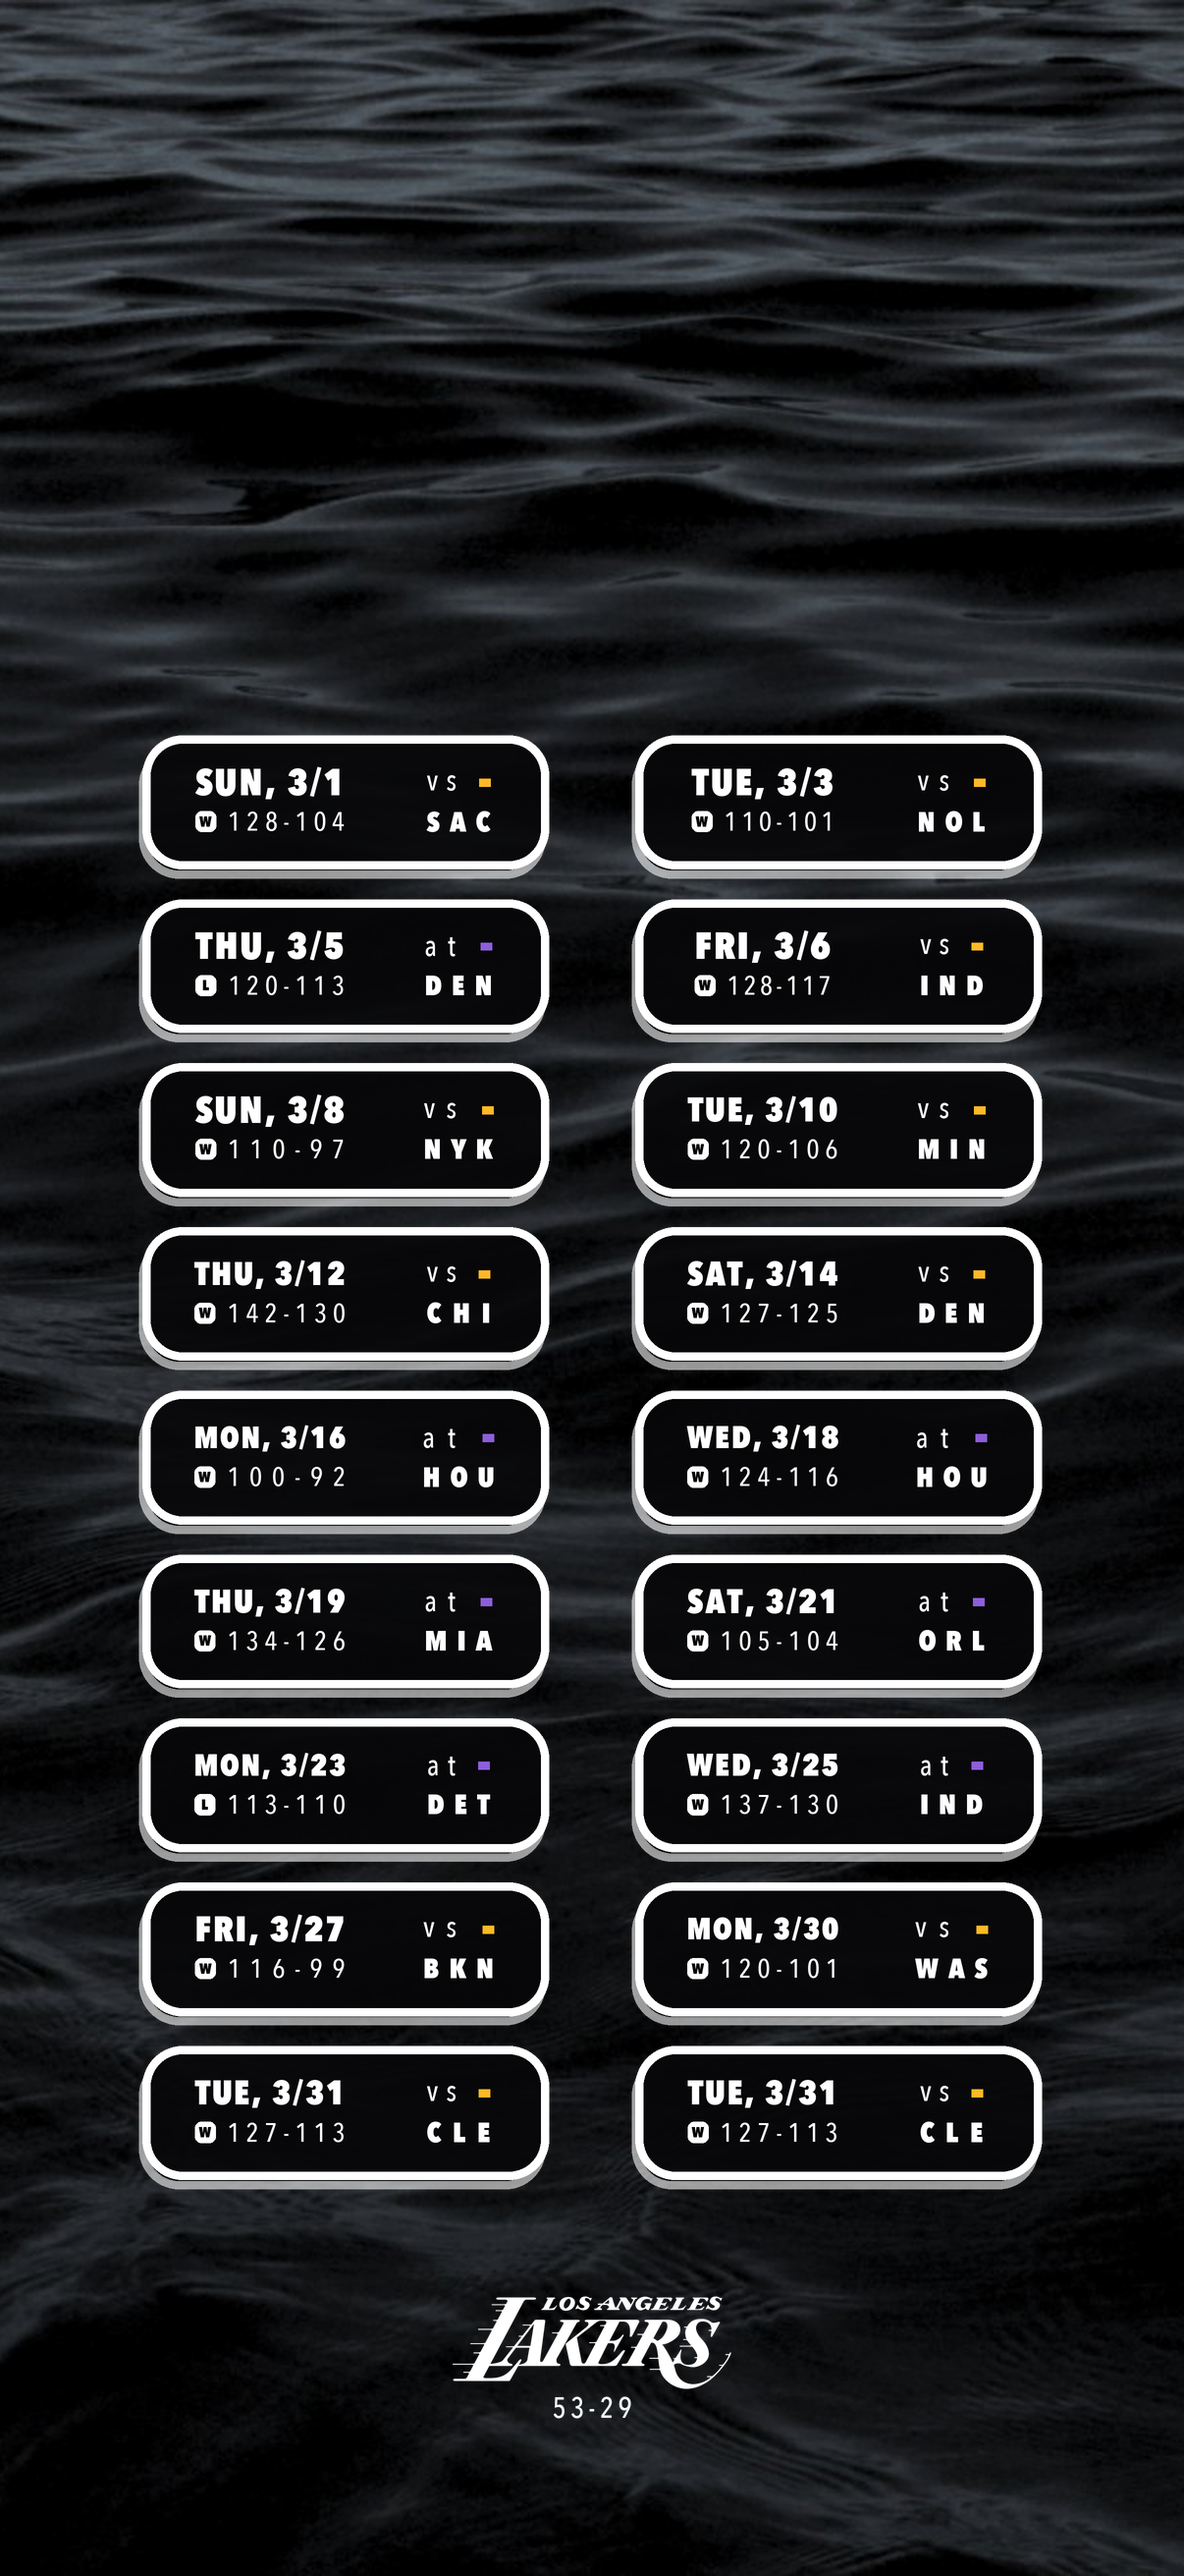
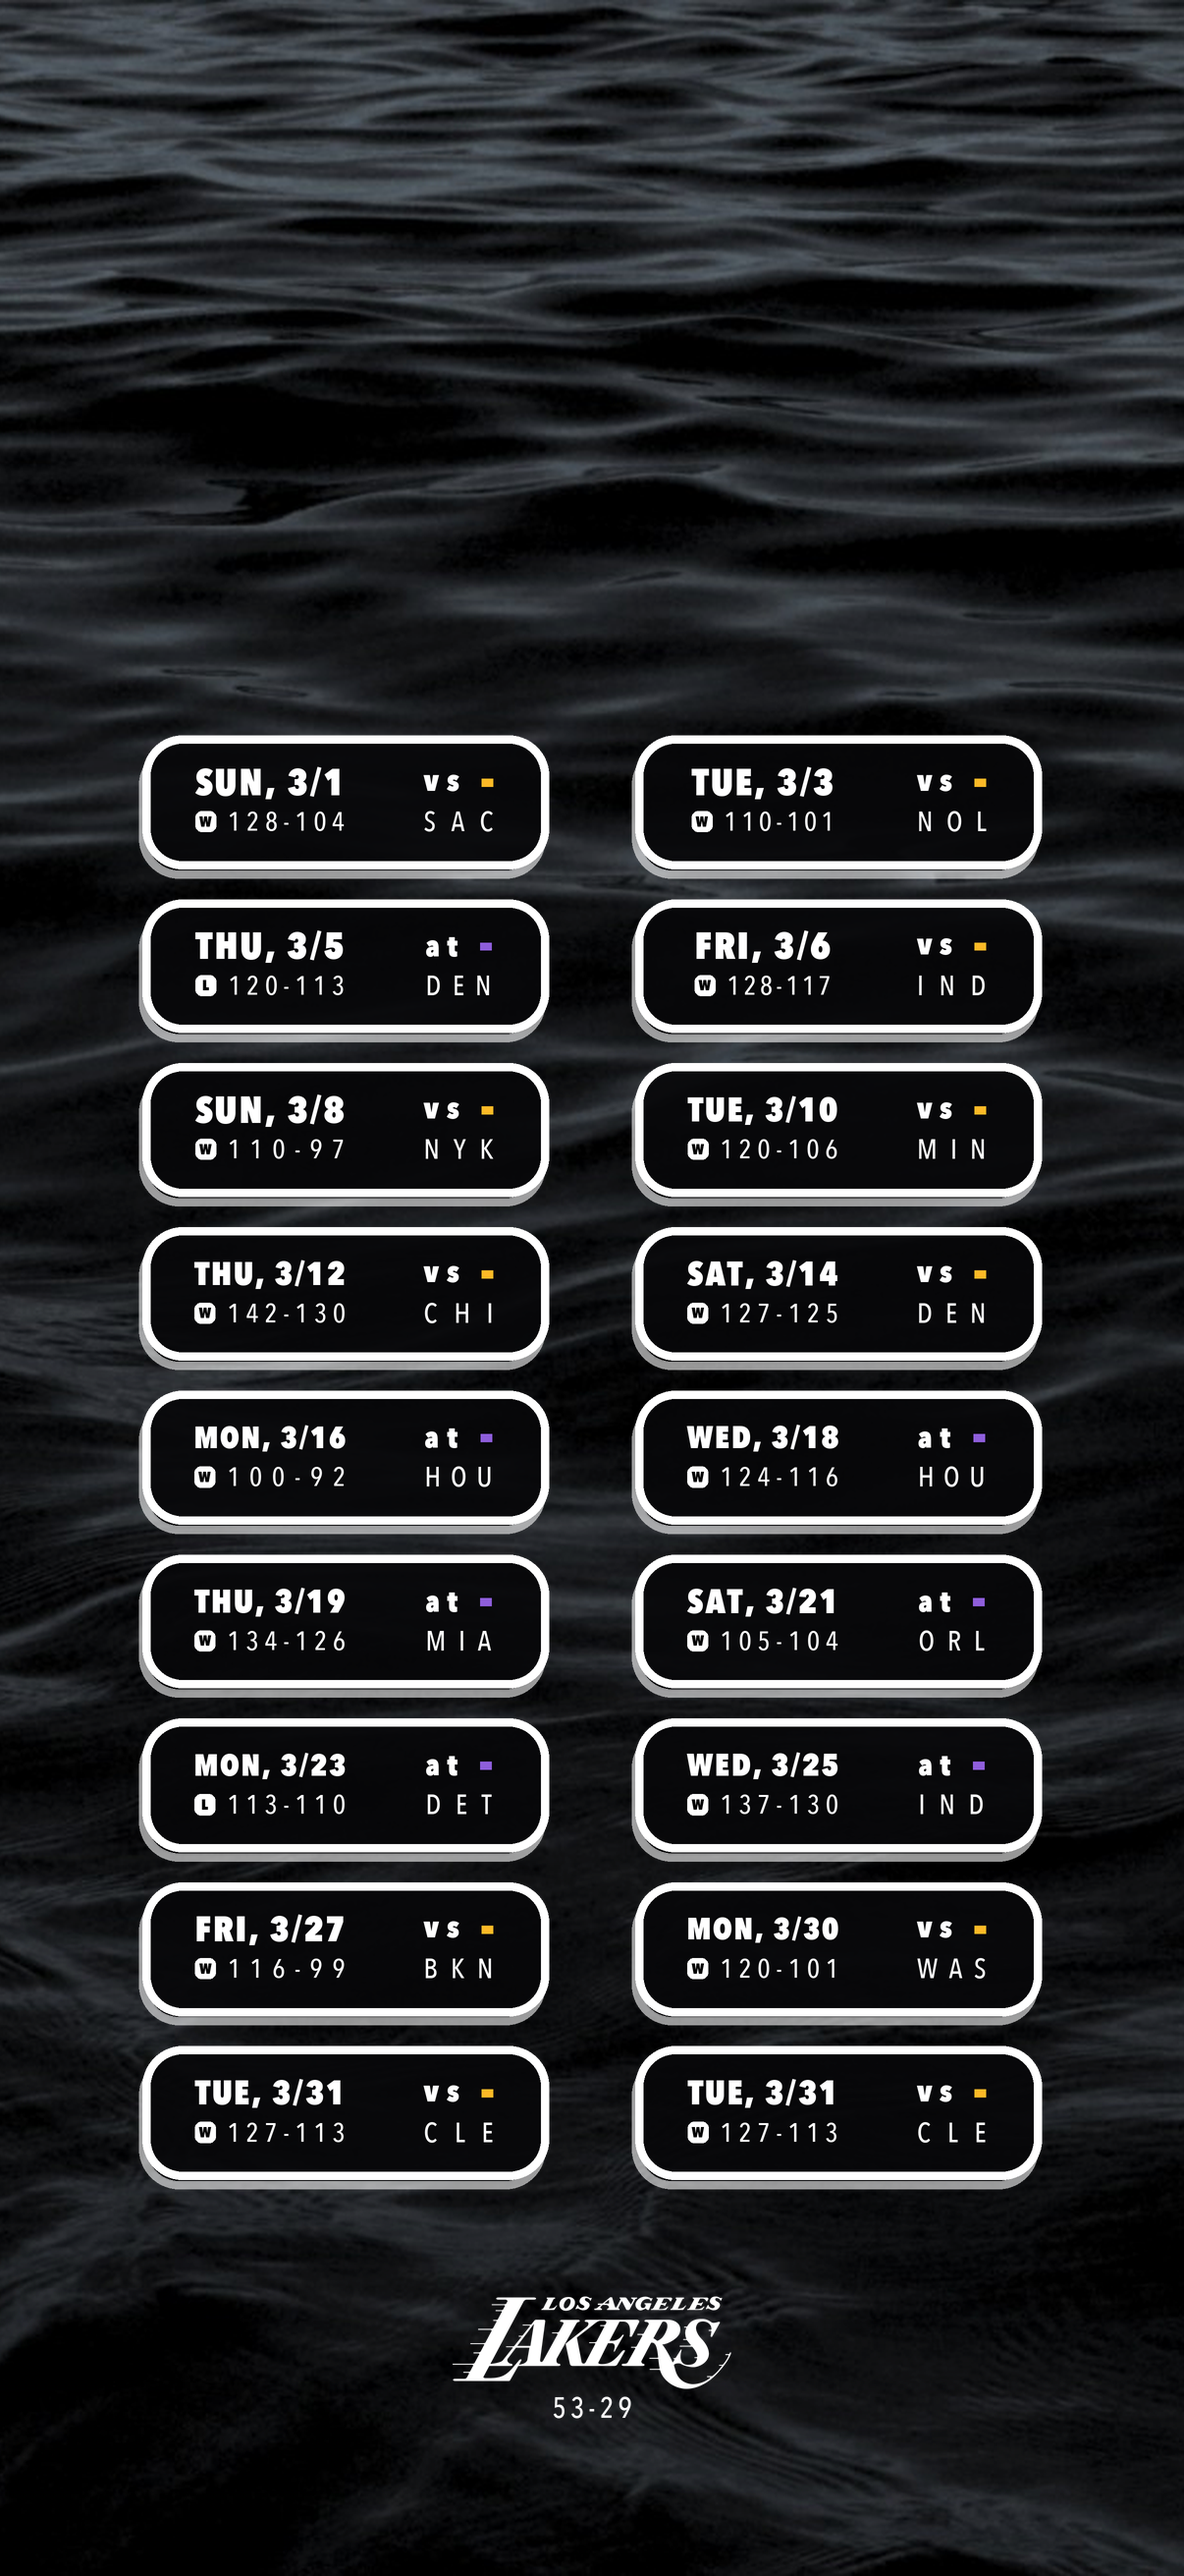
Swap vs/at and team-code weights

diff --git a/lakerscreen/render.py b/lakerscreen/render.py
@@ -239,12 +239,12 @@ def _draw_chip(c: _Canvas, box, g: Game, cfg: Config) -> None:
     swatch = pal.gold if g.is_home else pal.purple
     top_right = _fit(
         lambda s: [_text_run(c, "vs" if g.is_home else "at", s, pal.text,
-                             tracking=s * lay.vs_tracking, gap=h * lay.dot_gap,
-                             weight="light"),
+                             tracking=s * lay.vs_tracking, gap=h * lay.dot_gap),
                    _swatch_run(h * lay.dot_w, h * lay.dot_h, swatch)],
         h * lay.vs_size, rw, floor)
     bot_right = _fit(
-        lambda s: [_text_run(c, g.opponent, s, pal.text, tracking=s * lay.team_tracking)],
+        lambda s: [_text_run(c, g.opponent, s, pal.text, tracking=s * lay.team_tracking,
+                             weight="light")],
         h * lay.team_size, rw, floor)
 
     # Square each pair off: both lines in a zone get the same width, so their
